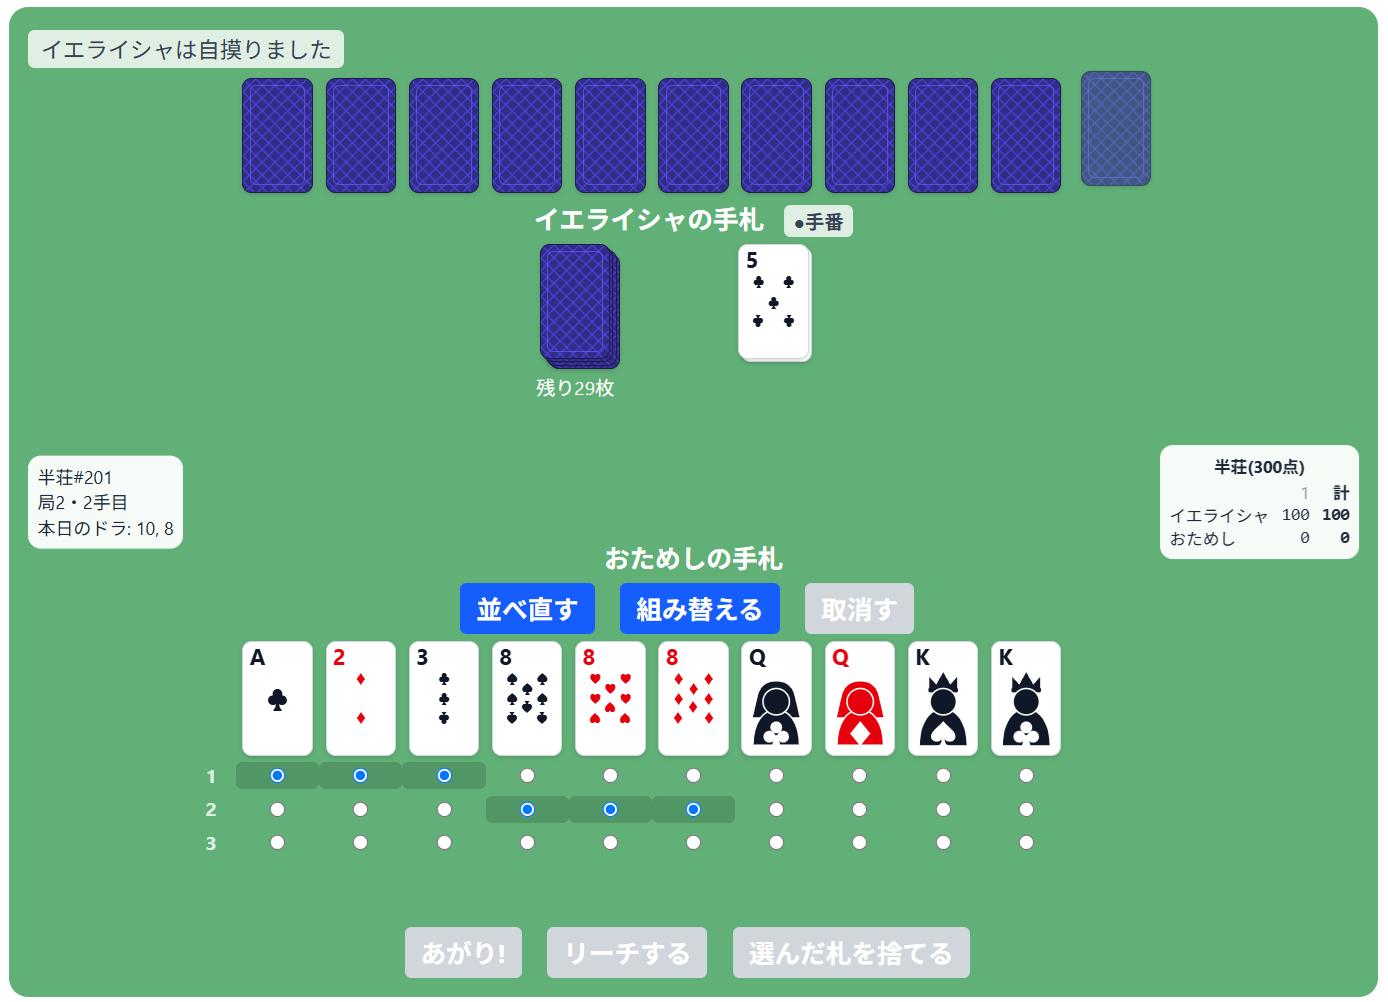
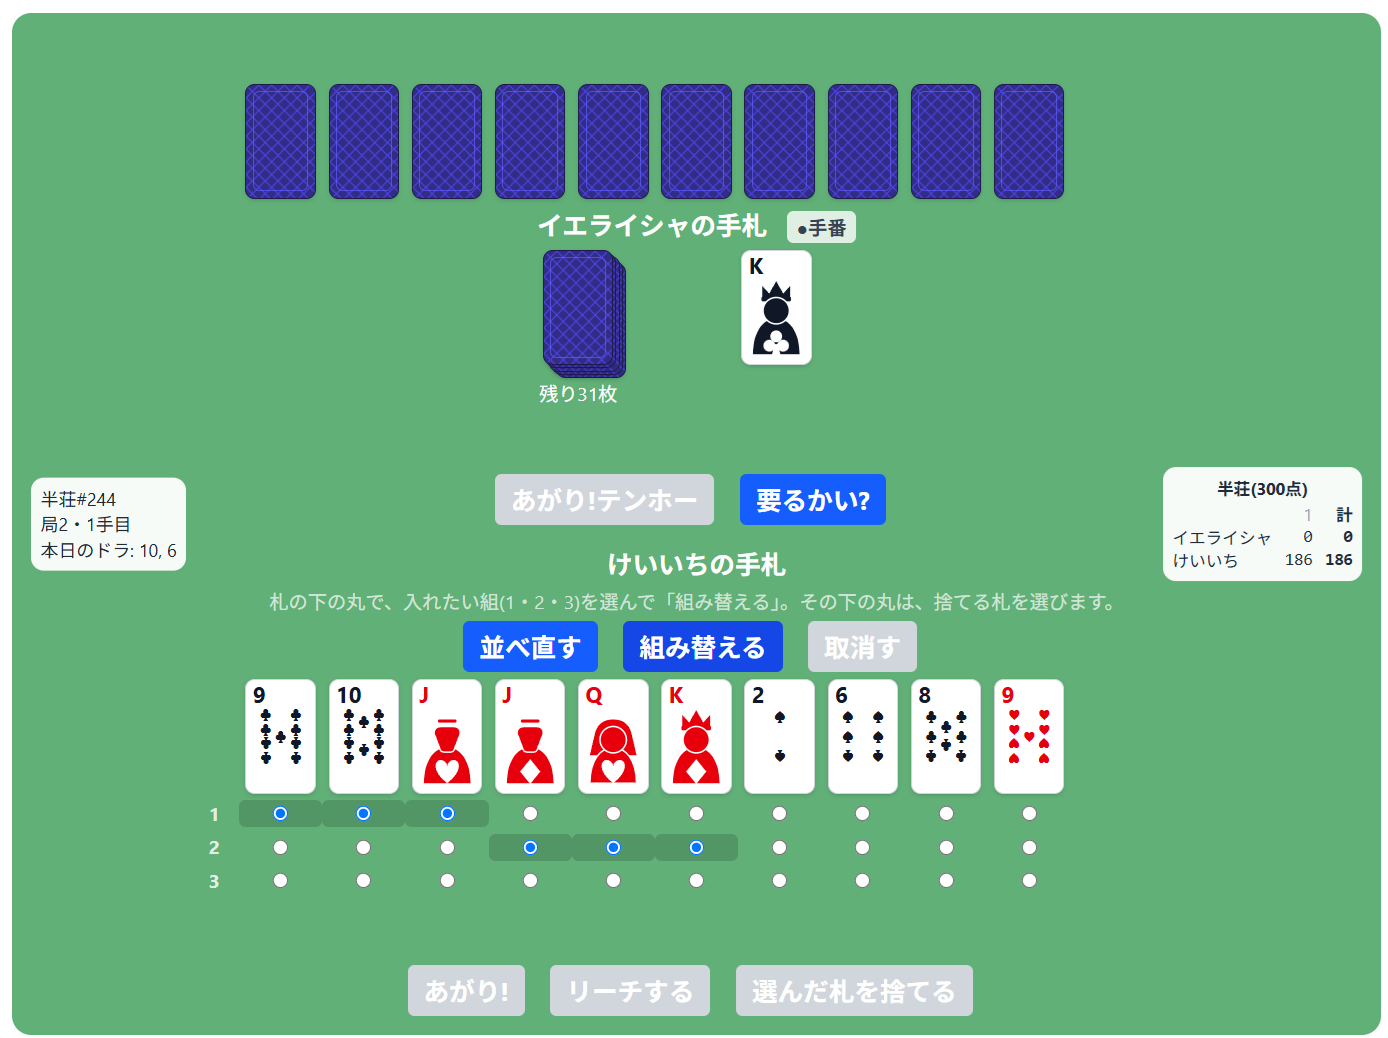
組の作り方、勝ったら裏ドラ確認に説明を差し替える

diff --git a/goods/rummy1/index.html b/goods/rummy1/index.html
@@ -79,11 +79,11 @@
       </figure>
       <figure class="shot">
         <img src="shot-3.png" alt="手札の組み替え画面。A・2・3の組と8・8・8の組に、それぞれ印が付いている" width="1388" height="1002">
-        <figcaption>③ 3組そろうまで手札を組み替えていきます</figcaption>
+        <figcaption>③ ラジオボタンで組を決めて「組み替える」を押していきます</figcaption>
       </figure>
       <figure class="shot">
         <img src="shot-4.png" alt="あがり画面。リーチ・一発・ツモ・裏ドラなどの点数内訳が表示されている" width="1393" height="1086">
-        <figcaption>④ あがれば点数の内訳が現れ、局毎の得点と半荘集計も確認できます</figcaption>
+        <figcaption>④ あがったら裏ドラを捲っての加点を確認します。点数の内訳が現れ、局毎の得点と半荘集計も確認できます</figcaption>
       </figure>
     </div>
   </section>
